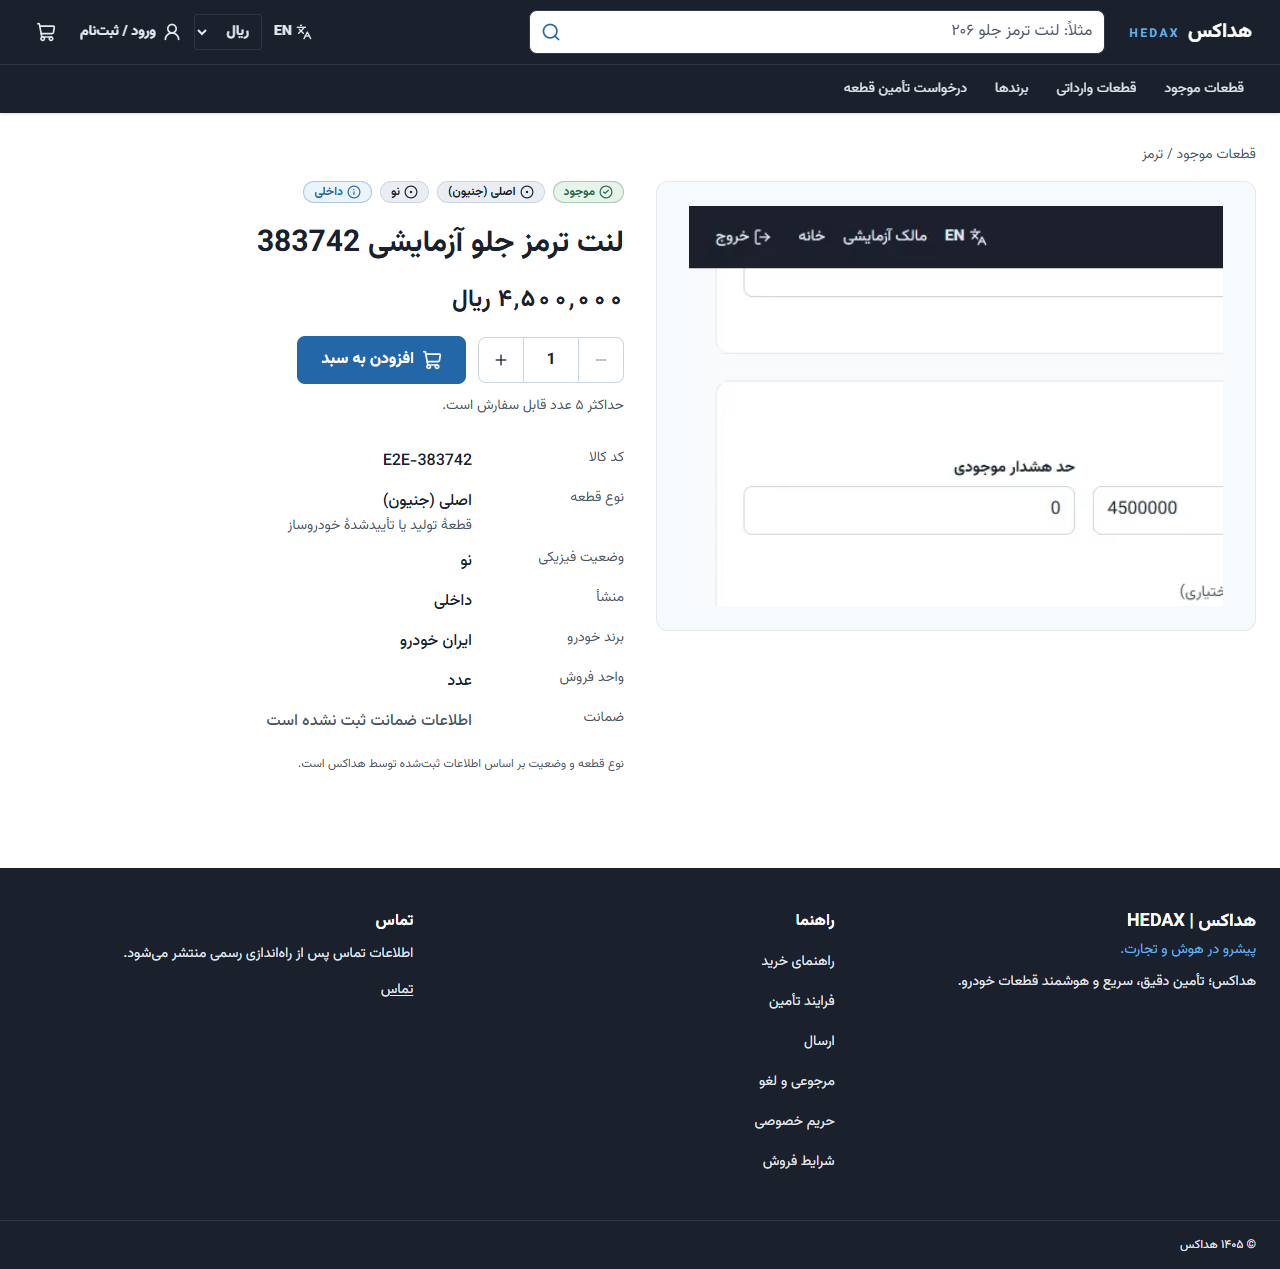
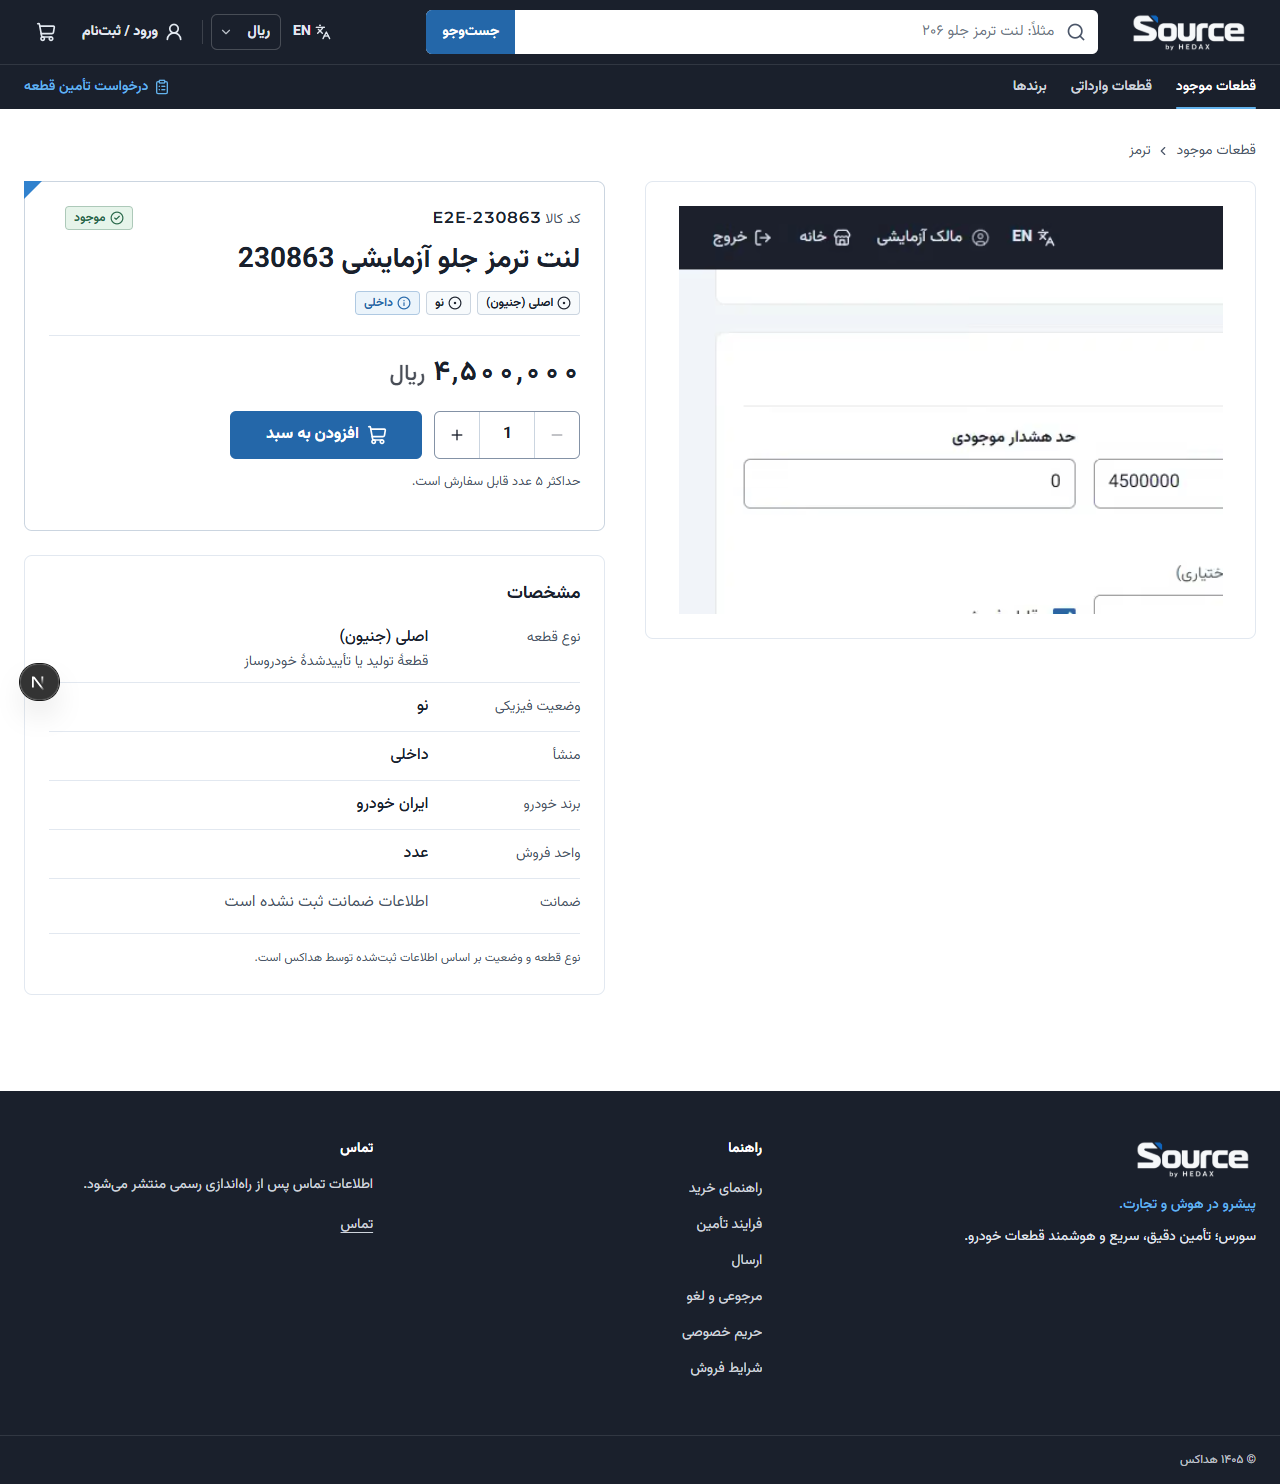
مستندات: تصاویر بازبینی با طرح تازه و نتیجهٔ کامل پشتهٔ واقعی
- docs/test-artifacts/ui: ۱۹ تصویر بازبینی با طرح تازه (۱۲ تصویر از اجرای
  e2e:real با دادهٔ آزمایشی و ۷ تصویر از پیشنمایش).
- docs/test-artifacts/redesign: چهار تصویر تازه از صفحههای فرعی پنل، حساب،
  صفحههای تلفن و حالتهای فرم.
- IMPLEMENTATION_STATUS: نتیجهٔ جلسهٔ دوم؛ هر ۱۸ مسیر پشتهٔ واقعی پاس شدند.

diff --git a/IMPLEMENTATION_STATUS.md b/IMPLEMENTATION_STATUS.md
@@ -232,11 +232,14 @@
 
 - یافتهٔ قبلی در پنل کارمندِ پیشنمایش در عرض ۳۹۰: اسکرول افقی در هر دو تصویر قبل/بعد وجود دارد (فارسی حدود ۲۳۴۷ پیکسل عرض کل). همین وضعیت و همهٔ مختصات آن ثابت ماند؛ رفع آن خارج از محدودهٔ نام/لوگو است.
 
-## بازطراحی بصری «پیشخوان فنی» — ۲۰۲۶-۱۰-۱۰ (شاخهٔ `design/visual-redesign`)
+## بازطراحی بصری «پیشخوان فنی» — ۲۰۲۶-۱۰-۱۰ (شاخهٔ `design/visual-redesign`، PR #1)
 
 - فقط ظاهر و ساختار HTML/CSS فروشگاه، حساب مشتری و پنل مدیریت تغییر کرد. منطق تجاری، API، مدل داده، پرداخت، موجودی، احراز هویت، تأیید دومرحلهای، مجوزها، مسیرها، ارسال فرمها و اعتبارسنجی دست نخوردند. یک کلید پیام تازه (`common.partCount`) در هر دو زبان اضافه شد؛ `brand.module.css` که دیگر استفاده نمیشد حذف شد.
 - سیستم طراحی در `design-system/MASTER.md` به نسخهٔ ۲٫۰ رسید: توکنهای `canvas`، `line-strong` (لبهٔ کنترلها با کنتراست ۳:۱)، `carbon-3`، شعاع ۶/۸/۱۲px، یک سایهٔ شناور، جزء `Code` برای کد قطعه و شمارهٔ مرجع، کلاسهای «برچسب قطعه» و جای خالی عکس.
-- اصلاحهای همزمان: سرریز افقی صفحههای حساب کاربری در تلفن و تبلت (تا ۶۲۲px)؛ دیدهشدن فوکوس صفحهکلید روی دکمههای انتخاب فایل؛ هماهنگی `scroll-padding-top` با ارتفاع سربرگ؛ منوی پنل در تلفن و تبلت بهصورت کشو؛ سطرهای برگهٔ مشخصات با container query تا در متن ۲۰۰٪ هم بیرون نزنند.
-- کنترلها: typecheck (۹۷۵ کلید در هر دو زبان)، lint کل مخزن و build production وب پاس؛ واحد domain ۷۸ و contracts ۸ پاس؛ آزمون مرورگری پیشنمایش ۳۱ از ۳۱ پاس (شامل ۷ بررسی axe، عرضهای ۳۶۰ تا ۱۴۴۰، پنل در ۳۶۰ و ۳۹۰ و متن ۲۰۰٪). جاروب سرریز افقی ۵۴ صفحه در ۳۶۰/۳۹۰/۷۶۸/۱۰۲۴/۱۴۴۰ بدون سرریز؛ در متن ۲۰۰٪ روی ۱۲۸۰ فقط یک مورد قبلی ماند (یادداشت داخلی جزئیات درخواست تأمین در پنل، ۴۲px).
-- پشتهٔ واقعی (`e2e:real`، همان کد): مسیرهای ۱ تا ۱۱ پنل و ۵ مسیر مشتری پاس شدند. مسیرهای ۱۲ (گزارشها) و ۱۳ (تنظیمات، فهرستها، تاریخچه، پرداختها و خروجی) اجرا نشدند: دیسک C این رایانه حدود ۲ گیگابایت جای خالی داشت و یک اجرای کامل بیش از آن لازم دارد؛ یک اجرا با `ENOSPC` شکست خورد و دو اجرا با نگهبان کمبود فضا متوقف شدند. پس از آزاد کردن فضا دوباره اجرا شود.
-- تصاویر قبل/بعد: `docs/test-artifacts/redesign/`.
+- اصلاحهای همزمان: سرریز افقی صفحههای حساب کاربری در تلفن و تبلت (تا ۶۲۲px)؛ دیدهشدن فوکوس صفحهکلید روی دکمههای انتخاب فایل؛ هماهنگی `scroll-padding-top` با ارتفاع سربرگ؛ منوی پنل در تلفن و تبلت بهصورت کشو؛ سطرهای برگهٔ مشخصات با container query.
+- جلسهٔ دوم (همان روز): همهٔ صفحههای فرعی پنل و حساب (۷۳ تصویر، فارسی و انگلیسی، تلفن و دسکتاپ) بازبینی شدند. افزودهها: ستون اول جدولها زیر `lg` ثابت میماند (کد یا شمارهٔ مرجع ردیف هنگام اسکرول افقی دیده میشود)؛ چکباکس «انتخاب» پیشفاکتور به خانهٔ قلم منتقل شد تا شرح قلم در تلفن خوانا باشد؛ مبلغ و واحد هرگز در دو خط نمیشکنند؛ گفتوگو و یادداشت داخلی میز کار تأمین با container query کنار هم یا زیر هم میآیند (رفع سرریز متن ۲۰۰٪)؛ پس از ثبت موفق درخواست تأمین، فوکوس و دید به پیام موفقیت میرود. تصاویر بازبینی `docs/test-artifacts/ui/` با طرح تازه بهروز شدند.
+- کنترلها: typecheck (۹۷۵ کلید در هر دو زبان)، lint کل مخزن و build production وب پاس؛ واحد domain ۷۸ و contracts ۸ پاس؛ آزمون مرورگری پیشنمایش ۳۱ از ۳۱ پاس (شامل ۷ بررسی axe، عرضهای ۳۶۰ تا ۱۴۴۰، پنل در ۳۶۰ و ۳۹۰ و متن ۲۰۰٪). جاروب سرریز افقی ۵۴ صفحه در ۳۶۰/۳۹۰/۷۶۸/۱۰۲۴/۱۴۴۰ و متن ۲۰۰٪: بدون سرریز.
+- پشتهٔ واقعی (`e2e:real`): هر ۱۸ مسیر پنل و مشتری پاس شدند، بدون تکرار؛ ۶ اندازهگیری کارایی فقط با `--perf` اجرا میشوند. دیسک C این رایانه حدود ۱٫۵ گیگابایت جای خالی دارد؛ برای این اجرا کش توسعهٔ وب و دادهٔ موقت روی درایو F نگه داشته شد (اجرای ساده روی C پیشتر با `ENOSPC` شکست خورده بود).
+- محدودیت پیشنمایش با دادهٔ نمونه (قبلی، خارج از بازطراحی): صفحههای ویرایش محصول، جزئیات پیشفاکتور و جزئیات سفارش تأمین در پنل خطا میدهند، چون `lib/fixtures/handler.ts` برای این مسیرها `[]` برمیگرداند؛ روی پشتهٔ واقعی درست کار میکنند.
+- تصاویر قبل/بعد و صفحههای بیشتر: `docs/test-artifacts/redesign/`.
+- نقطهٔ ادامه: بازبینی و تصمیم مالک دربارهٔ PR #1 (ادغام یا انتشار فقط با تأیید مالک). پیشنهادهای بعدی در توضیح PR آمدهاند.
